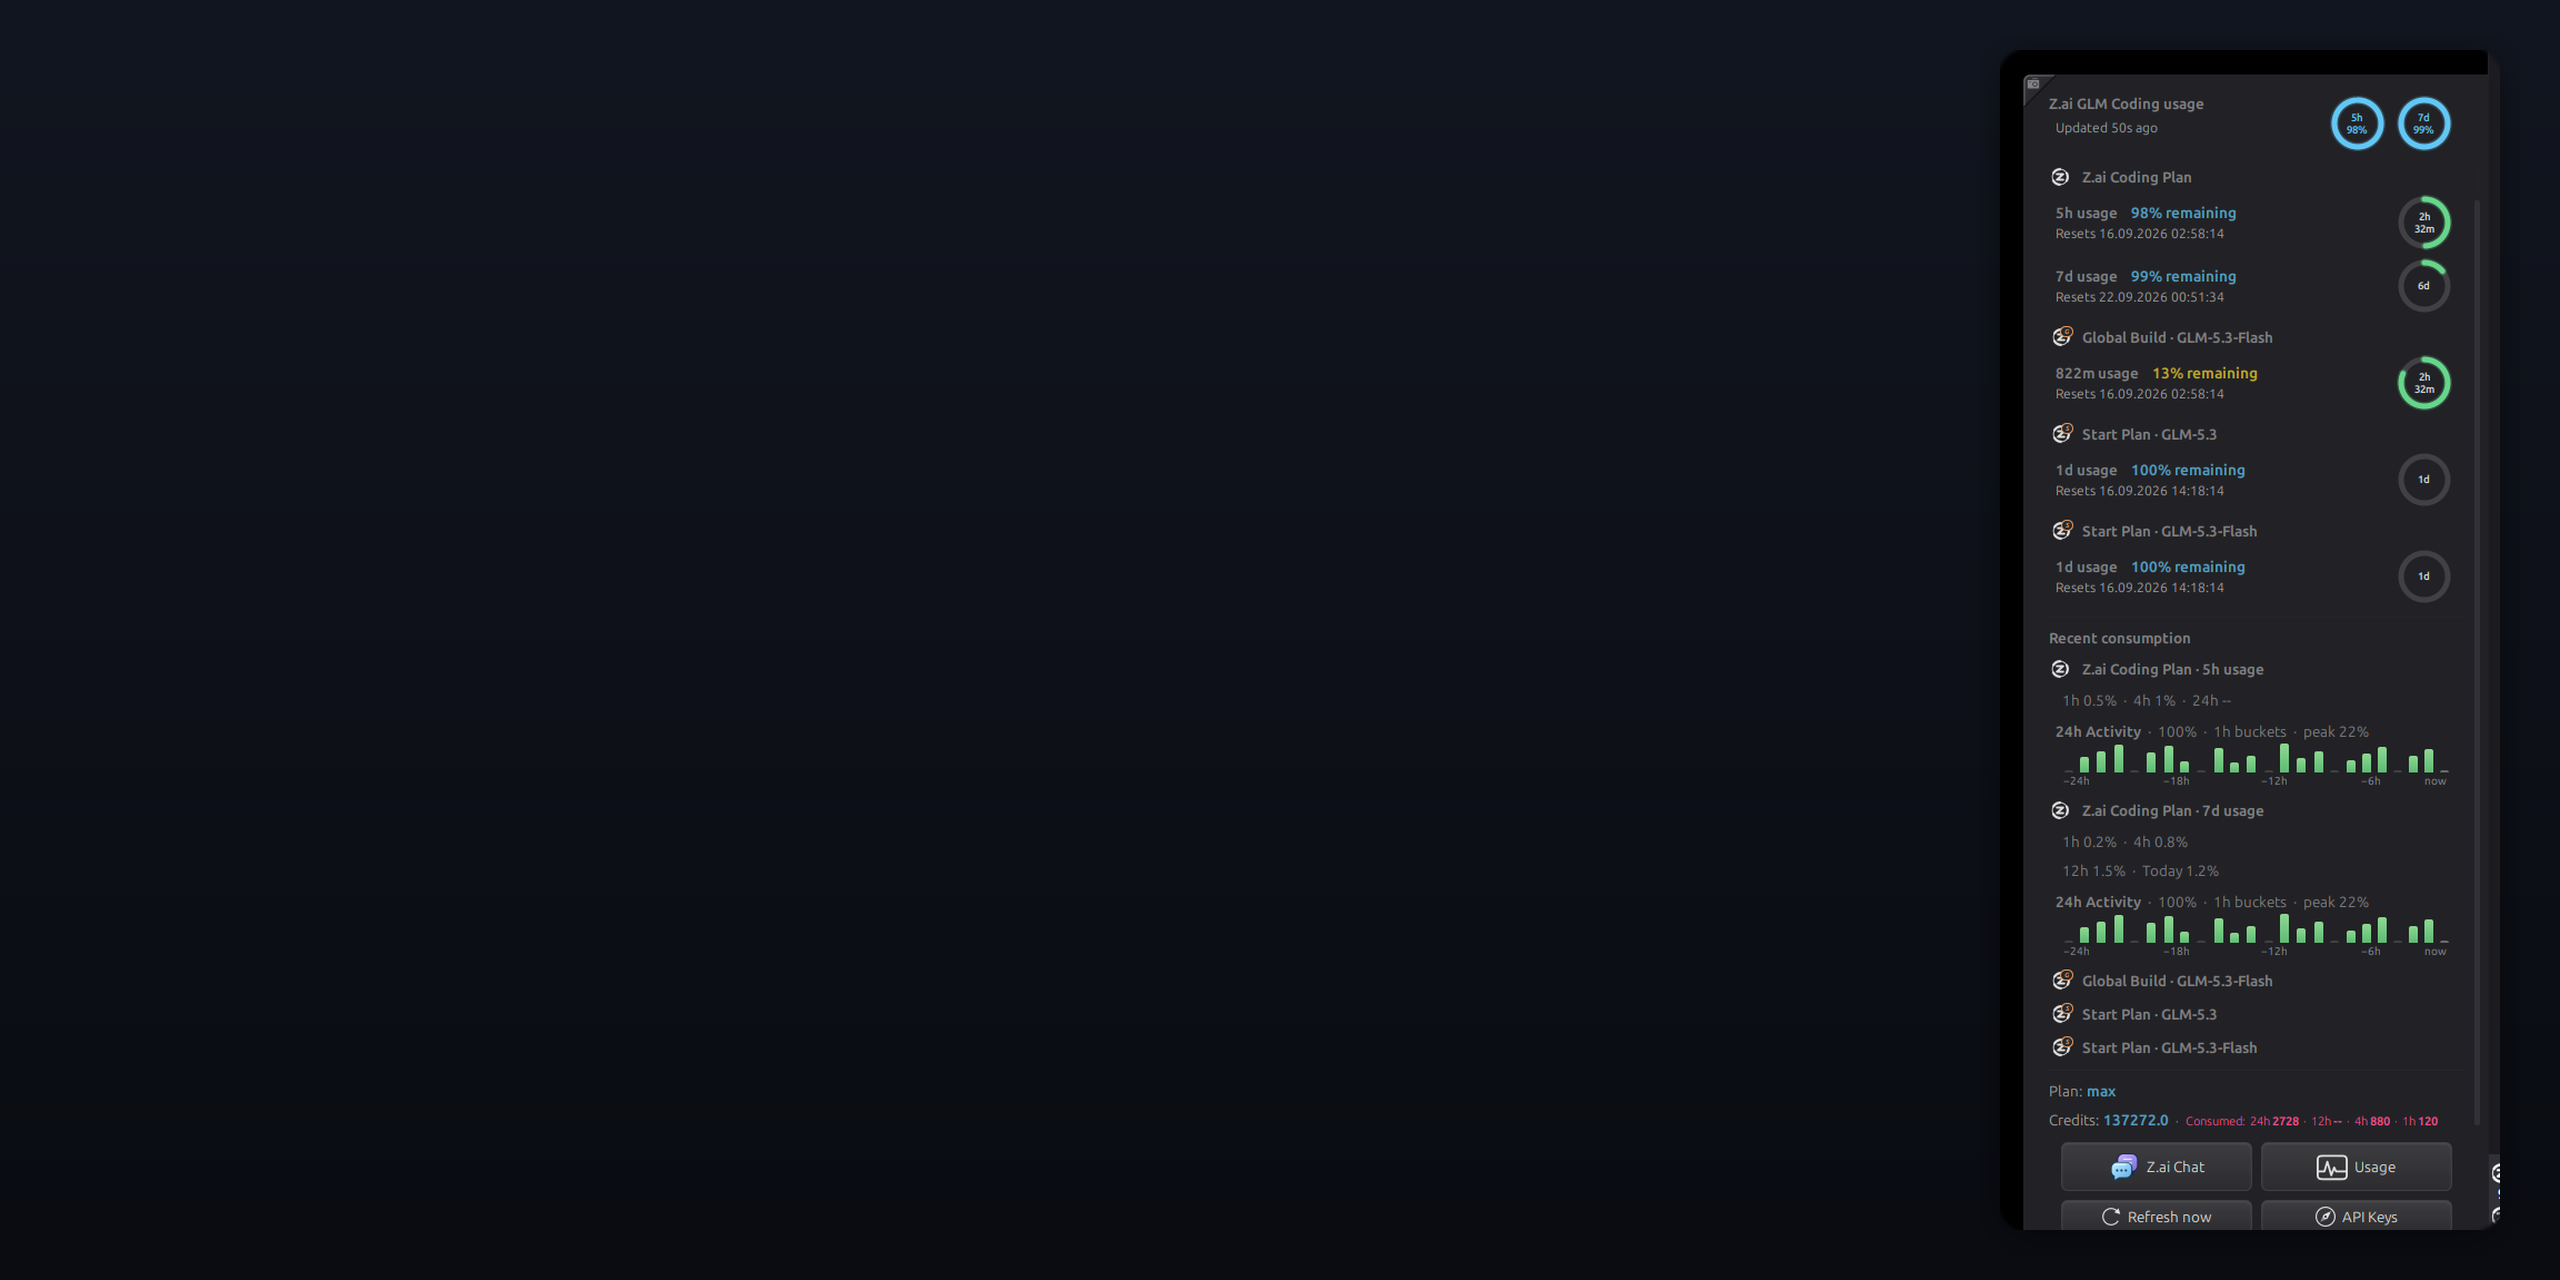
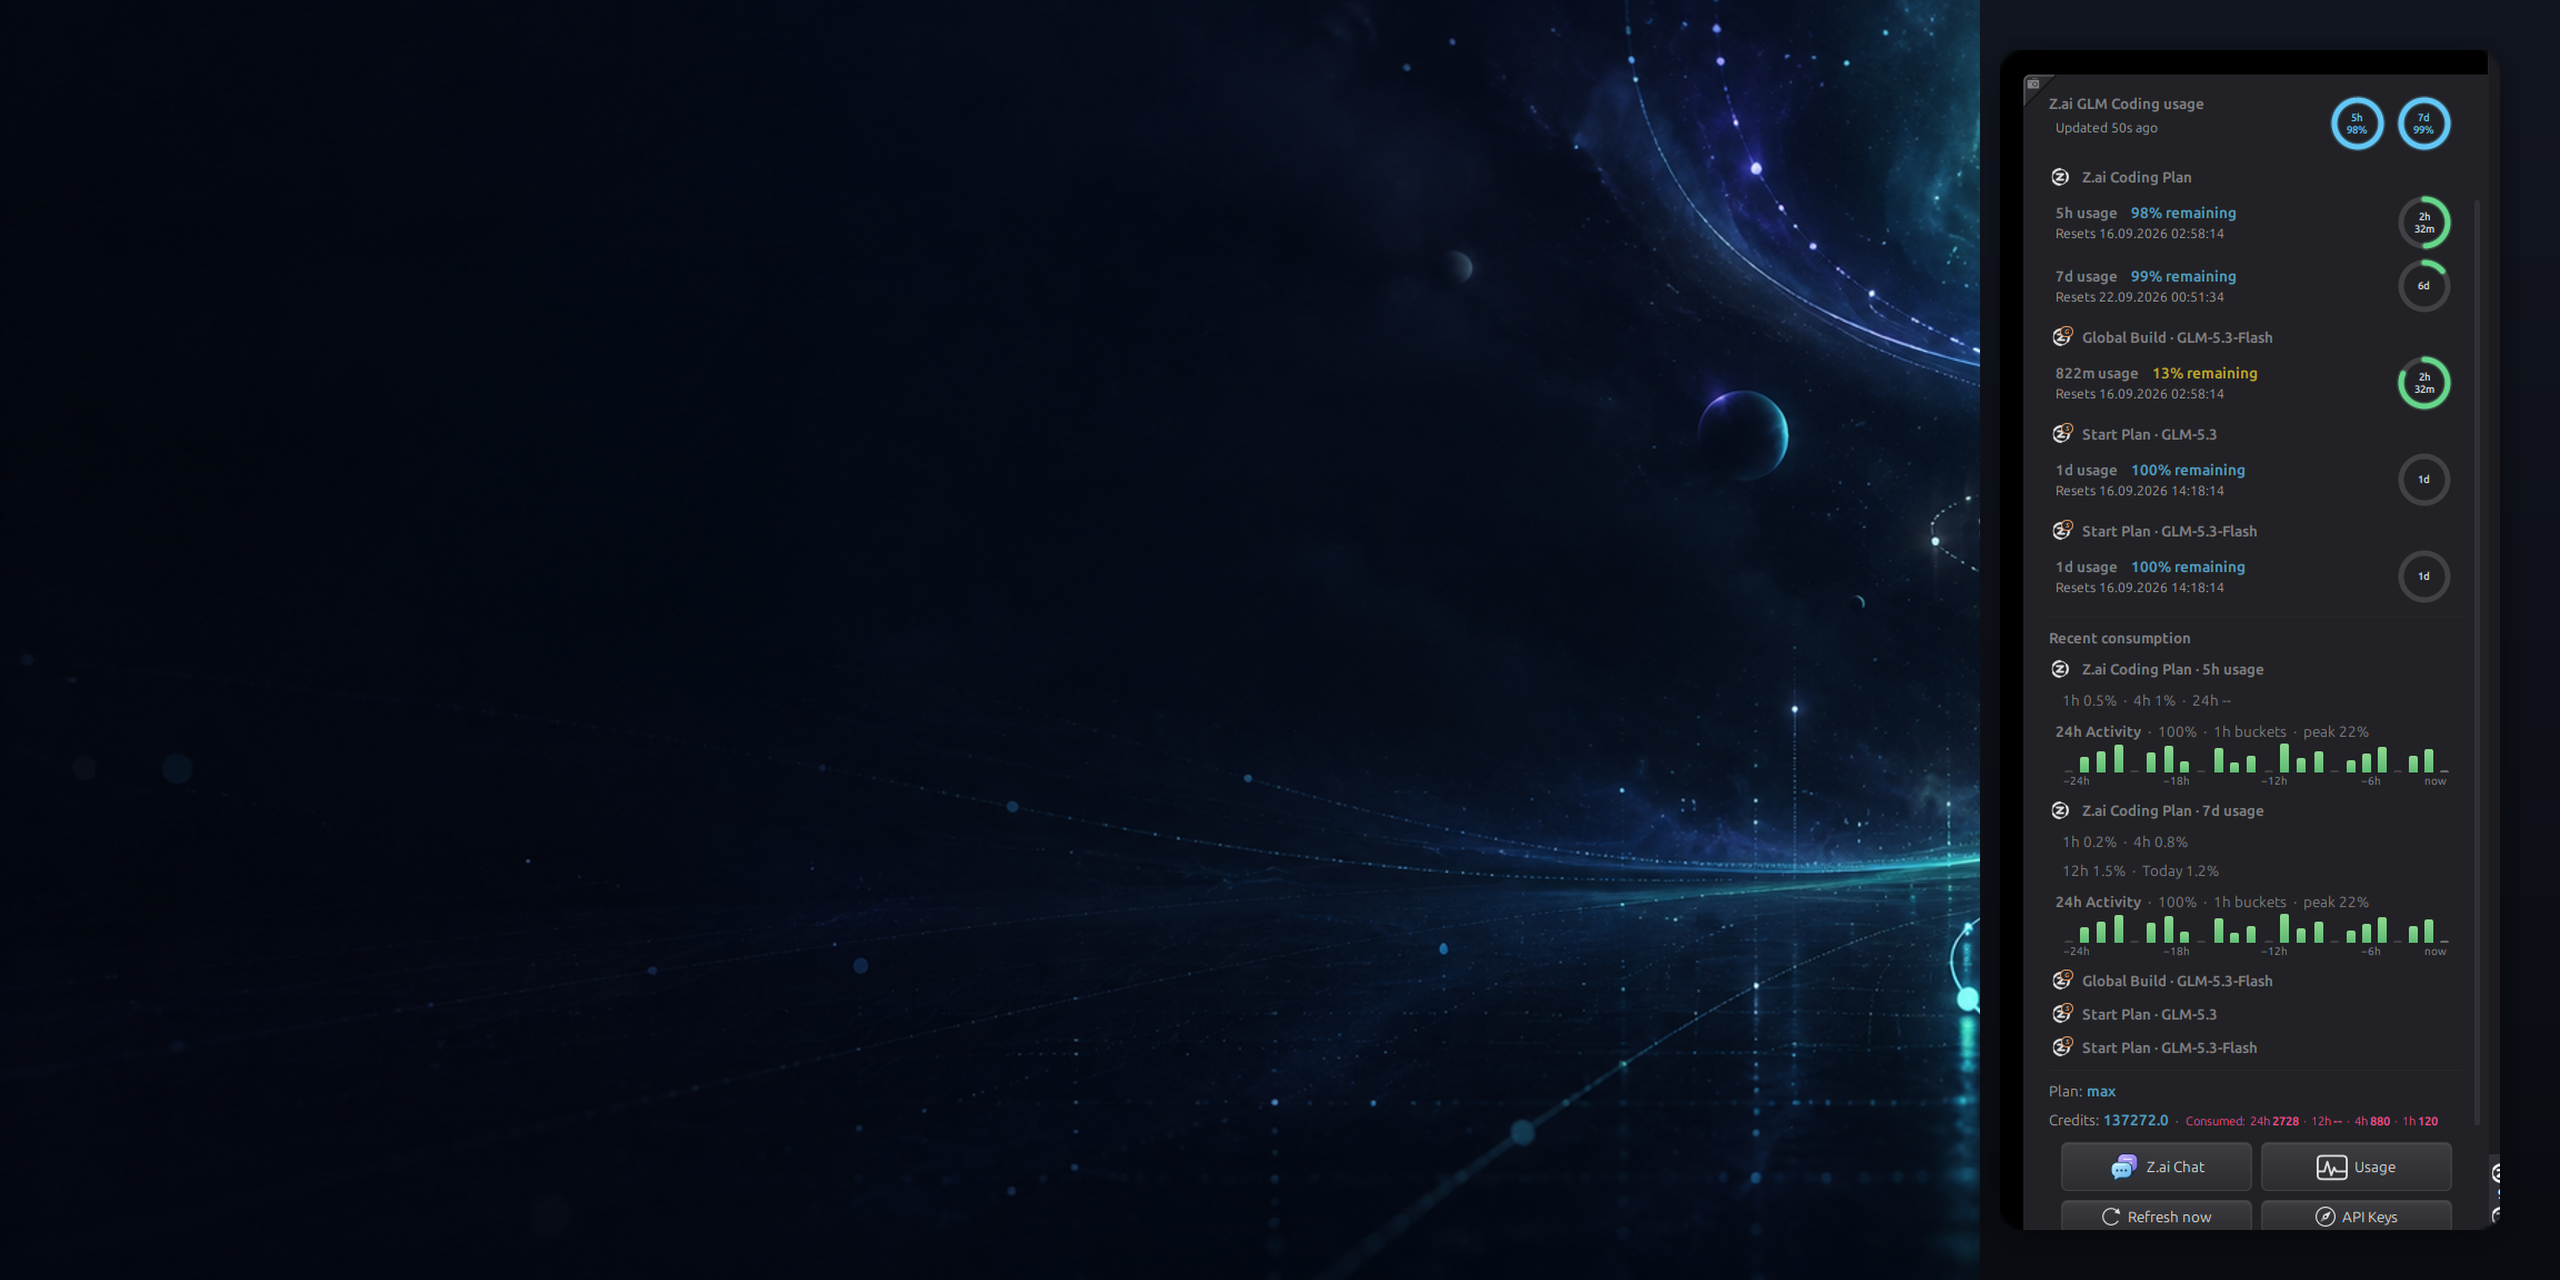
feat(social-preview): add Z Usage Monitor atmosphere artwork
Refresh the repository preview with a generated telemetry-inspired backdrop
while preserving the privacy-safe popup capture and deterministic renderer.

diff --git a/.github/social-preview-src/render-all.py b/.github/social-preview-src/render-all.py
@@ -1,5 +1,5 @@
 #!/usr/bin/env python3
-"""Render or verify every configured ChatGPT Usage Monitor social-preview variant."""
+"""Render or verify every configured Z Usage Monitor social-preview variant."""
 
 from __future__ import annotations
 

diff --git a/.github/social-preview-src/render.py b/.github/social-preview-src/render.py
@@ -1,5 +1,5 @@
 #!/usr/bin/env python3
-"""Render a deterministic ChatGPT Usage Monitor social-preview variant."""
+"""Render a deterministic Z Usage Monitor social-preview variant."""
 
 from __future__ import annotations
 

diff --git a/.github/social-preview-src/README.md b/.github/social-preview-src/README.md
@@ -1,10 +1,12 @@
 # Social preview source
 
 The repository preview (`.github/social-preview.png`) is rendered at
-1280×640 from three lossless sources:
+1280×640 from these lossless sources:
 
-- `background.png`: privacy-safe demo capture of the popup (isolated
-  Cinnamon session, demo data) composed on a dark gradient.
+- `atmosphere.png`: abstract light-trail artwork with a quiet left side for
+  the typography and a brighter telemetry-like flow on the right.
+- `background.png`: the artwork with a privacy-safe demo capture of the popup
+  composited on top (isolated Cinnamon session, demo data).
 - the original project glyph, `icons/usage-white.png`.
 - deterministic SVG typography and layout generated by `render.py`.
 - output copy and repository-relative paths from `variants.json`.
